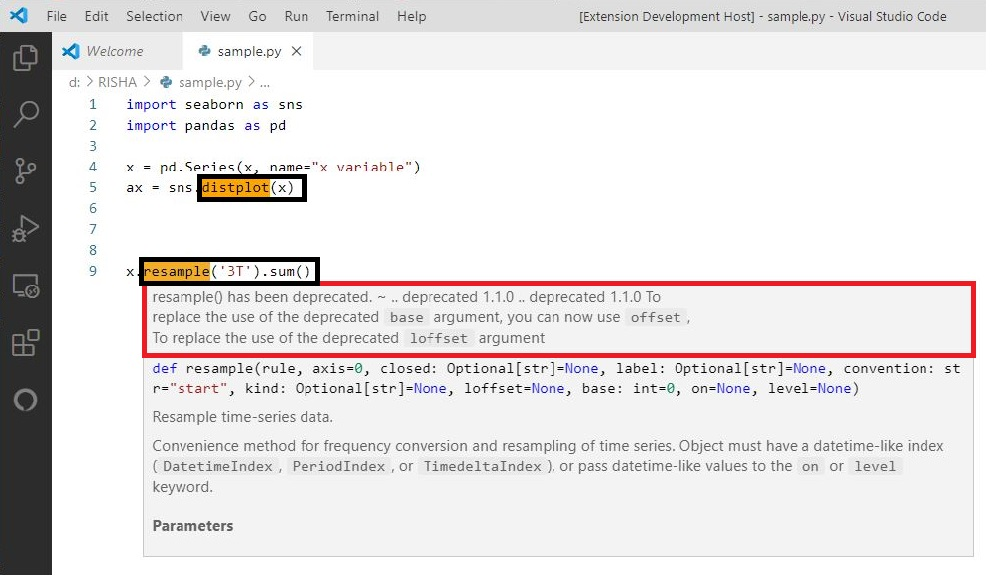
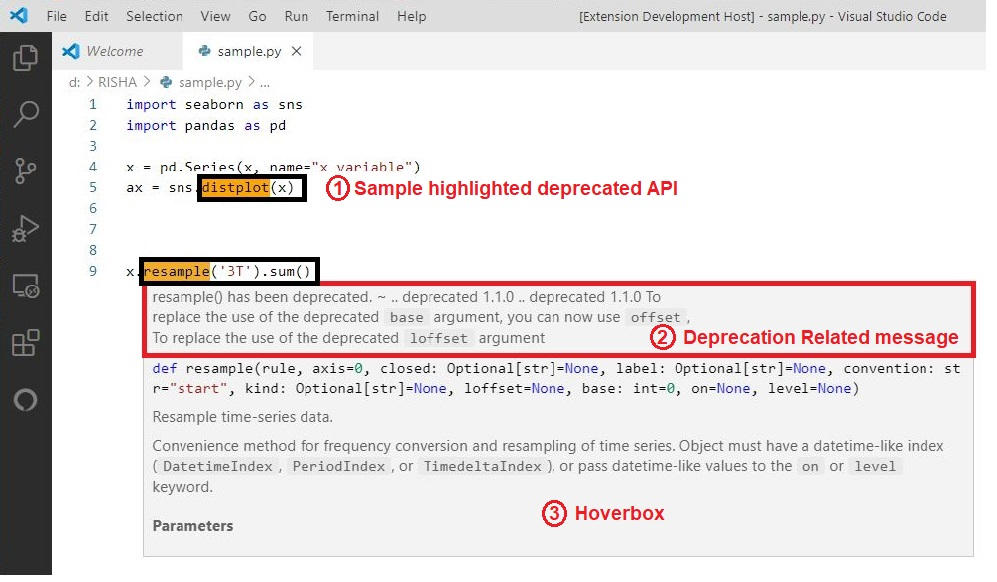
updated readme

Changed region(s): [[0.653, 0.5567, 0.9639, 0.6186], [0.3109, 0.3093, 0.6841, 0.3402], [0.5286, 0.866, 0.6841, 0.8969]]

diff --git a/README.md b/README.md
@@ -18,4 +18,26 @@
 
 # Working of API*Scanner*
 The approach followed by API*Scanner* is summarized below:
-![]
+![Approach diagram](images/updated_process_diagram.PNG)
+1. In the current active editor, it extracts the import statements to identify the libraries being used in the current program.
+2. We then parse the soure code of library to generate Abstract Syntax Tree. 
+3.  Structure of AST helps to realize the relationship between class declaration and function definition with decorator, hard-coded warnings, and comments
+4. We then extract all the deprecated API elements declared using the above three methods.
+5. We, now highlight all the deprecated API elements in the VS Code Editor, by matching with list of deprecated API elements we generated.
+
+# Snapshot of UI
+![Sample UI](images/sampleUI_light.JPG)
+Snapshot of UI of API*Scanner* extension. The black boxes indicate deprecated APIs highlighted by API*Scanner*. The red box indicates the message shown by API*Scanner* on hovering over the highlighted deprecated APIs.
+
+# What's inside API*Scanner*-Dev Repository:
+package.json file triggers the extension, whenever the programming language used is python. out/commands/pyScripts contains the python scripts that generates the list of deprecated API elements. extension.ts file uses these list of deprecated API elements to highlight the usage of deprecated elements in the current active editor.
+# Steps to install API*Scanner*
+In visual studio code, click (ctrl+shift+x) to open Extensions tab. Now search for APIScanner and install it.
+
+You can also navigate to https://marketplace.visualstudio.com/ and search for APIScanner and download the vsix package locally and install it in vscode.
+
+# Steps to use API*Scanner*
+1. In visual studio code, open an existing python file or create a new python.
+2. You will be able to see usage of deprecated elements. 
+# How to contribute to API*Scanner*
+Incase of a bug or an enhancement idea or a feature improvement idea, please open an issue or a pull request. Incase of any queries or if you would like to give any suggestions, please feel free to contact Aparna Vadlamani (cs17b005@iittp.ac.in) or Rishitha Kalicheti (cs17b014@iittp.ac.in) or Sridhar Chimalakonda (ch@iittp.ac.in) of RISHA Lab, IIT Tirupati, India.
